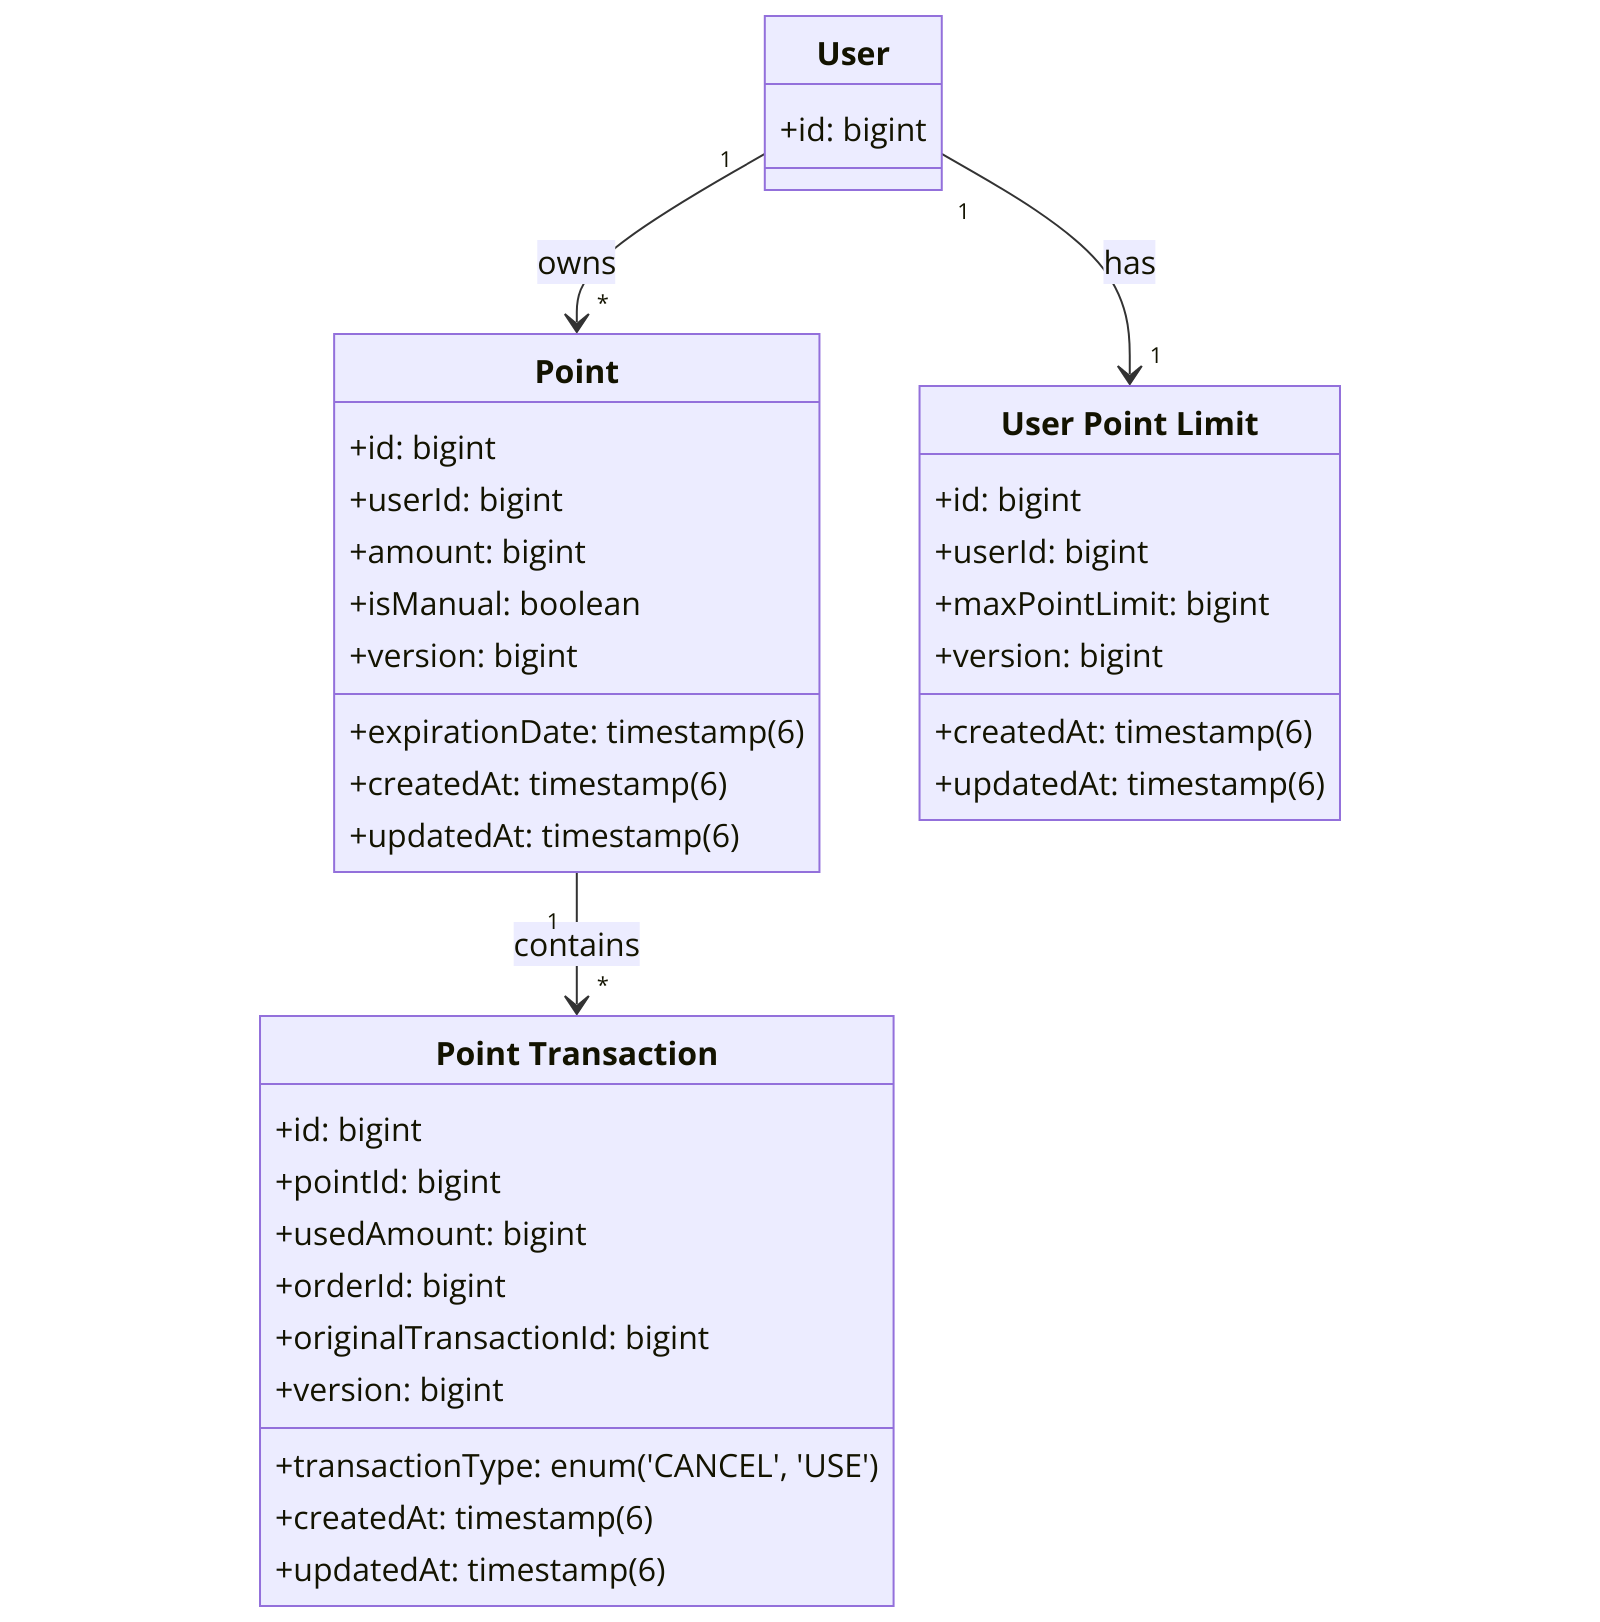
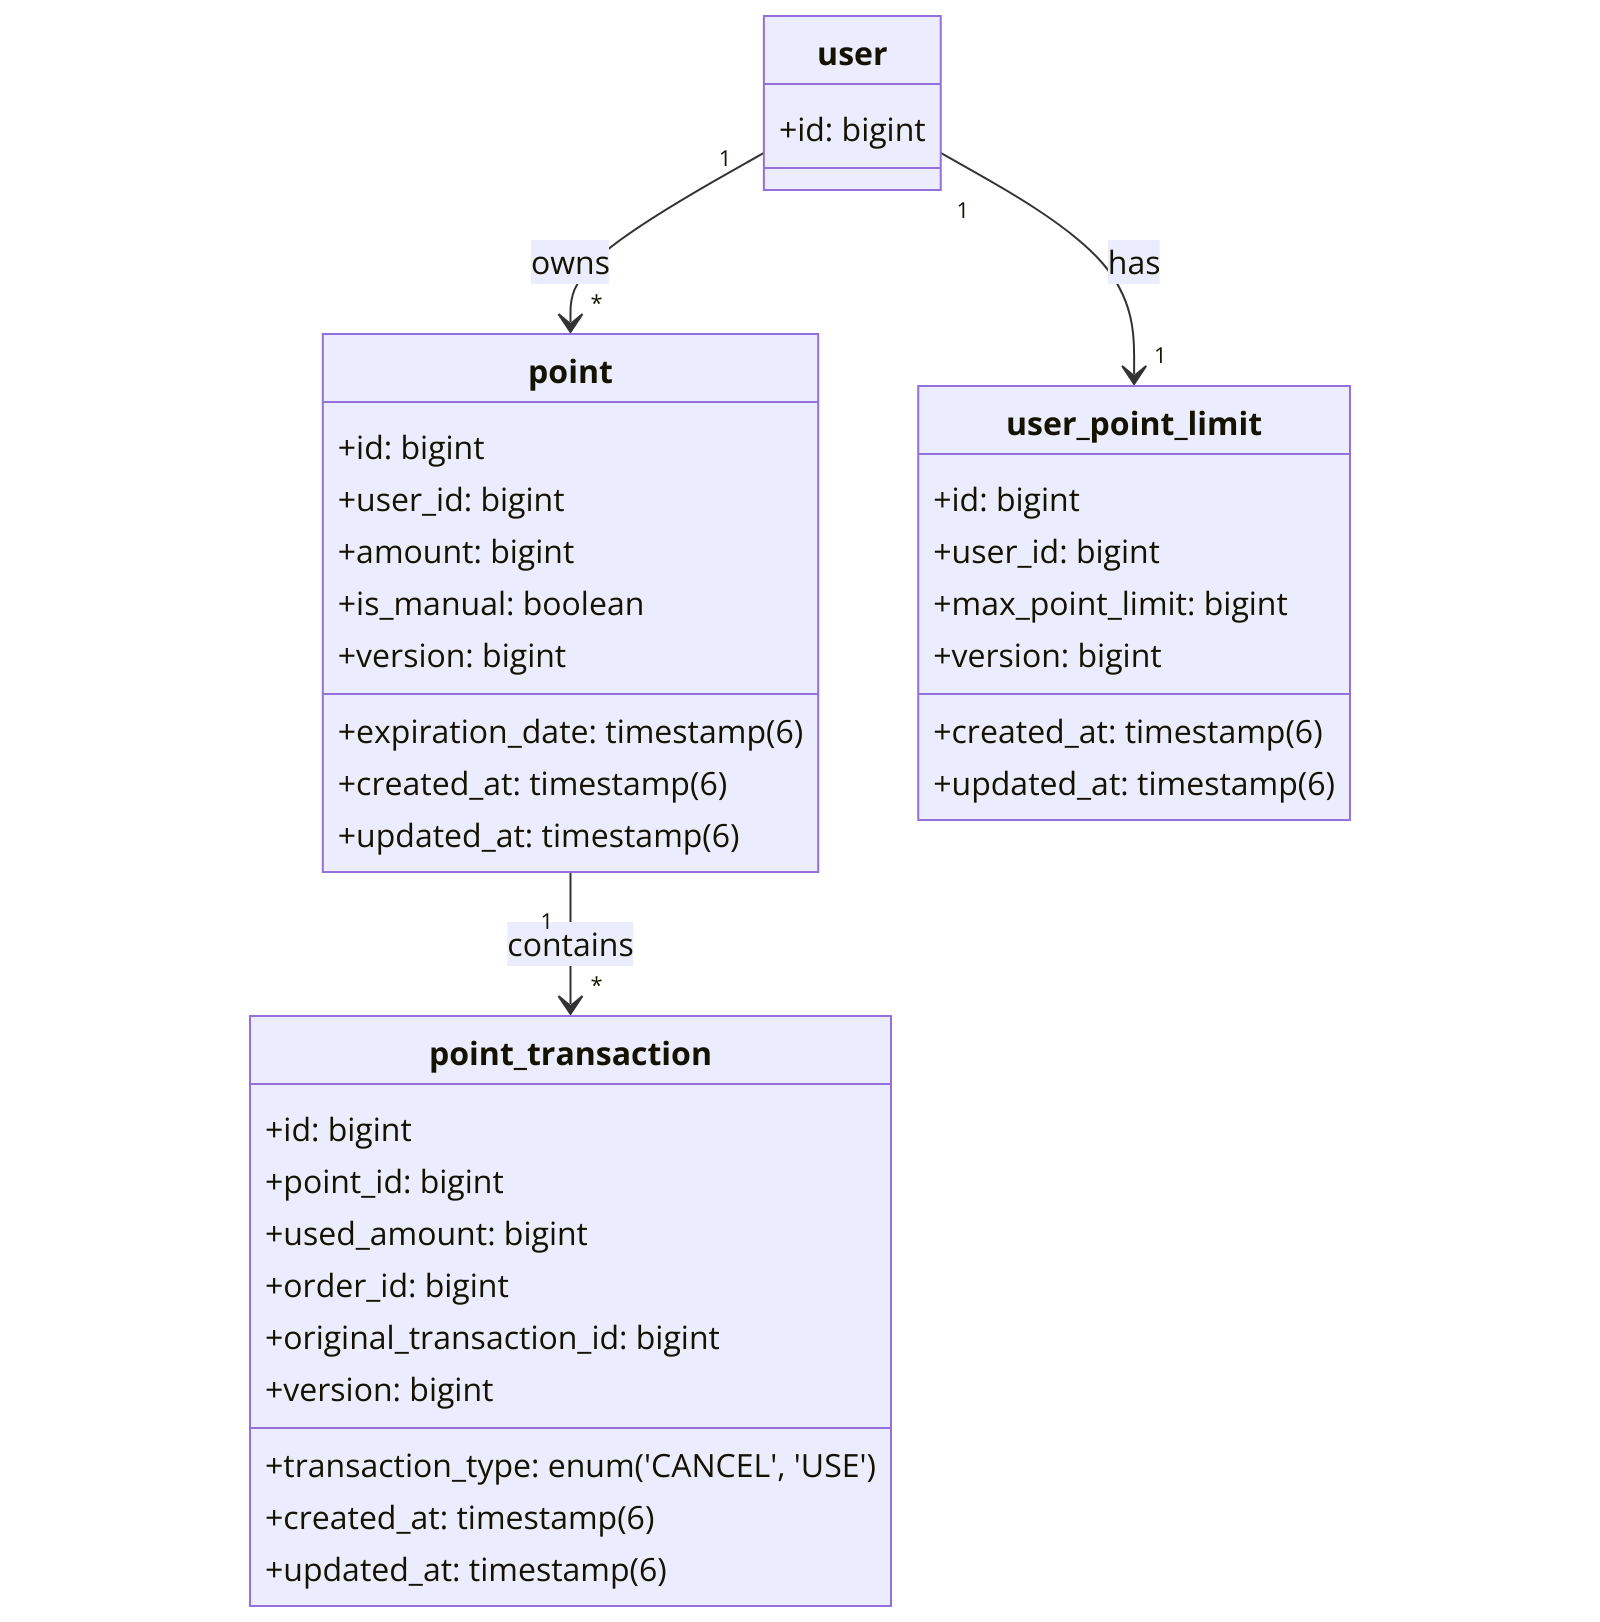
docs: README 및 ERD 다이어그램 추가

diff --git a/README.md b/README.md
@@ -94,45 +94,45 @@ POST /points/use/cancel
 
 ```mermaid
 classDiagram
-  class User {
-    +id: bigint
-  }
+    class User["user"] {
+        +id: bigint
+    }
 
-  class Point {
-    +id: bigint
-    +userId: bigint
-    +amount: bigint
-    +isManual: boolean
-    +expirationDate: timestamp(6)
-    +version: bigint
-    +createdAt: timestamp(6)
-    +updatedAt: timestamp(6)
-  }
+    class Point["point"] {
+        +id: bigint
+        +user_id: bigint
+        +amount: bigint
+        +is_manual: boolean
+        +expiration_date: timestamp(6)
+        +version: bigint
+        +created_at: timestamp(6)
+        +updated_at: timestamp(6)
+    }
 
-  class PointTransaction {
-    +id: bigint
-    +pointId: bigint
-    +usedAmount: bigint
-    +orderId: bigint
-    +transactionType: enum('CANCEL', 'USE')
-    +originalTransactionId: bigint
-    +version: bigint
-    +createdAt: timestamp(6)
-    +updatedAt: timestamp(6)
-  }
+    class PointTransaction["point_transaction"] {
+        +id: bigint
+        +point_id: bigint
+        +used_amount: bigint
+        +order_id: bigint
+        +transaction_type: enum('CANCEL', 'USE')
+        +original_transaction_id: bigint
+        +version: bigint
+        +created_at: timestamp(6)
+        +updated_at: timestamp(6)
+    }
 
-  class UserPointLimit {
-    +id: bigint
-    +userId: bigint
-    +maxPointLimit: bigint
-    +version: bigint
-    +createdAt: timestamp(6)
-    +updatedAt: timestamp(6)
-  }
+    class UserPointLimit["user_point_limit"] {
+        +id: bigint
+        +user_id: bigint
+        +max_point_limit: bigint
+        +version: bigint
+        +created_at: timestamp(6)
+        +updated_at: timestamp(6)
+    }
 
-  User "1" --> "*" Point : owns
-  User "1" --> "1" UserPointLimit : has
-  Point "1" --> "*" PointTransaction : contains
+    User "1" --> "*" Point : owns
+    User "1" --> "1" UserPointLimit : has
+    Point "1" --> "*" PointTransaction : contains
 ```
 
 
